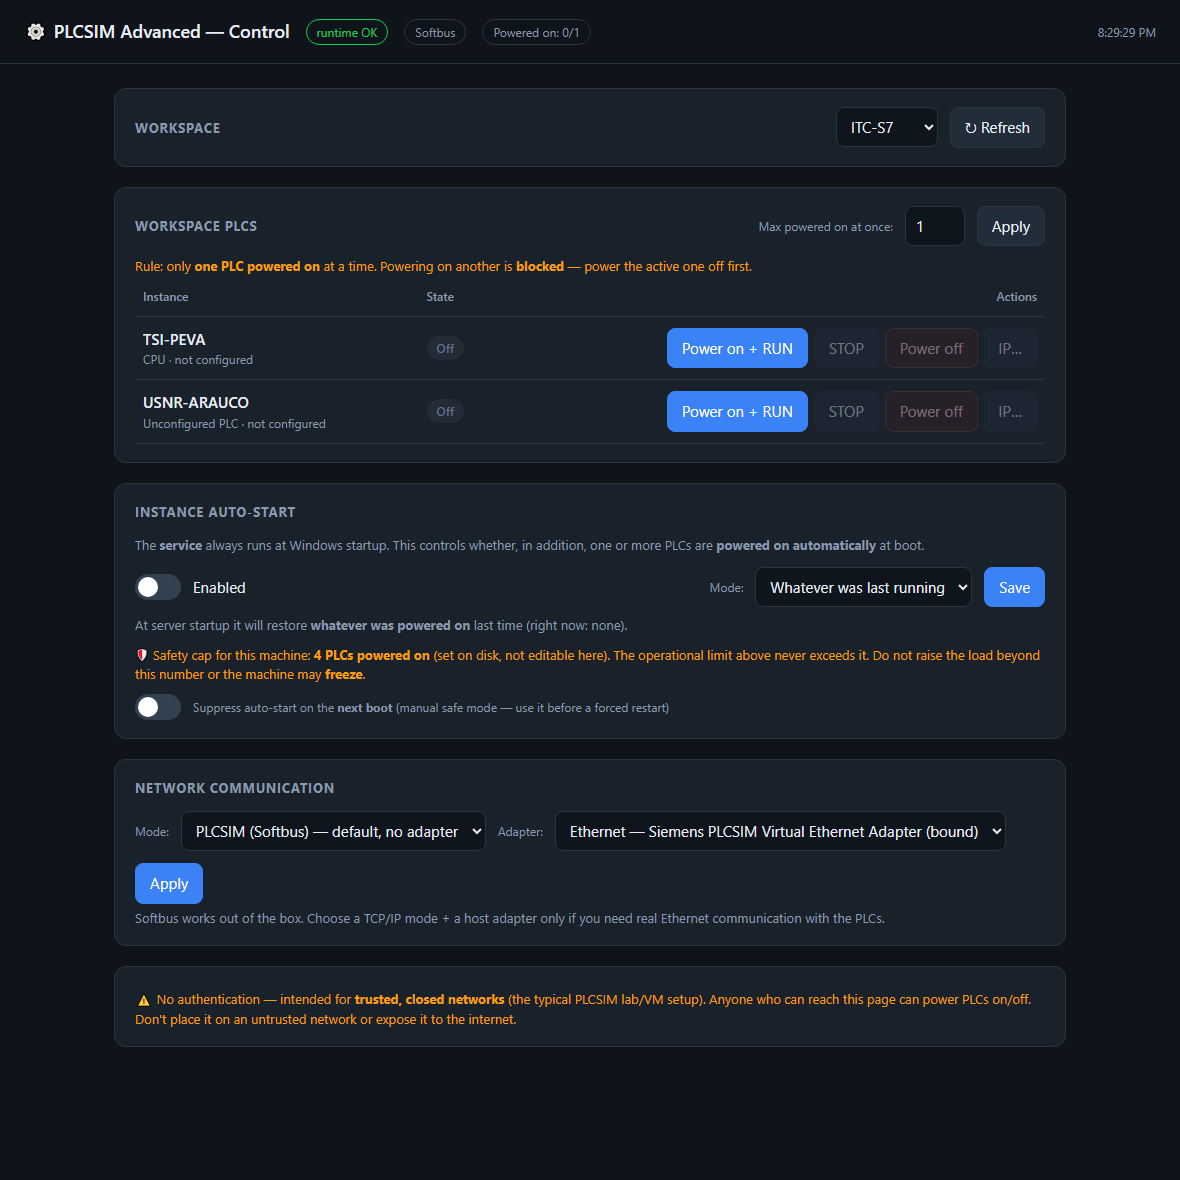
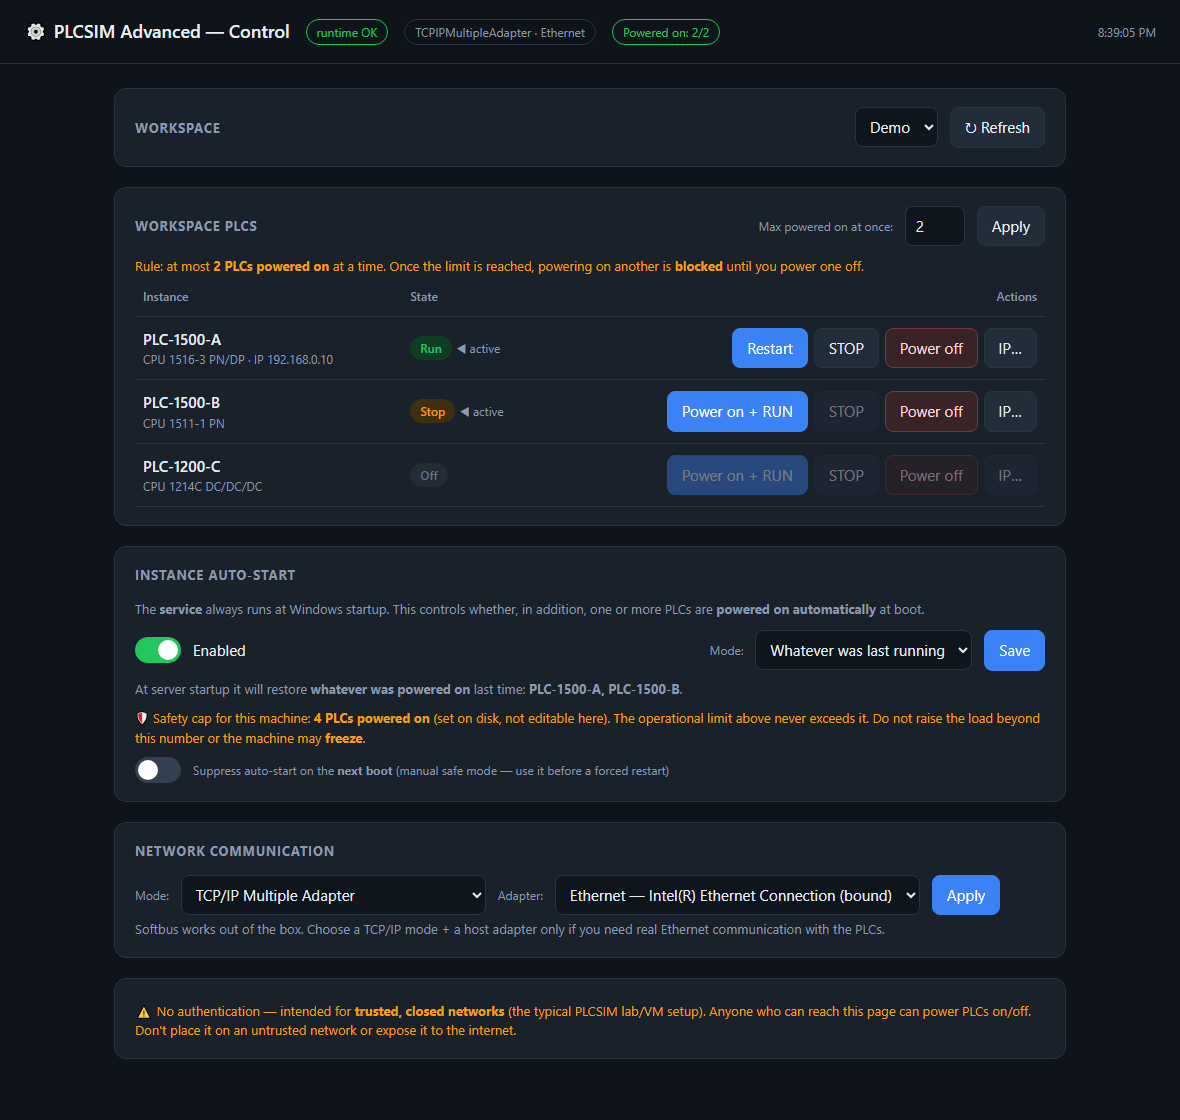
Add double-click Install.cmd/Uninstall.cmd (self-elevating via UAC); use placeholder data in the README screenshot; keep .cmd as CRLF (-text)

diff --git a/docs/INSTALL.md b/docs/INSTALL.md
@@ -8,12 +8,15 @@
 ## Install
 1. Download the project — green **Code → Download ZIP** — which gives **`PLCSIM-WebControl-main.zip`**
    (the prebuilt `PlcWebControl.exe` is inside). Extract it; you get a `PLCSIM-WebControl-main` folder.
-2. **PowerShell → Run as administrator**, `cd` into that folder, and run:
-   ```powershell
-   .\scripts\install.ps1
-   ```
-   It builds the app, finds the PLCSIM DLL, opens the LAN port (default), creates `appconfig.txt`, and
-   registers an always-on task **"PLCSIM WebControl"**. Add `-LocalOnly` to bind to localhost.
+2. **Double-click `Install.cmd`** and accept the UAC prompt. It finds the PLCSIM DLL, opens the LAN
+   port, creates `appconfig.txt`, and registers an always-on task **"PLCSIM WebControl"**.
+
+   > Because it was downloaded from the internet, Windows may first show a security warning ("Windows
+   > protected your PC" / "Open File - Security Warning"). Choose **More info → Run anyway** — it's
+   > your own downloaded file.
+
+   Command-line alternative: from an elevated PowerShell, run `.\scripts\install.ps1` (add `-LocalOnly`
+   to bind to localhost).
 3. Open **http://localhost:8090** (or `http://<this-machine-ip>:8090` from another machine).
 
 Manage it:

diff --git a/README.md b/README.md
@@ -52,13 +52,11 @@ Beyond remote control and auto-start:
 1. **Download** the project — green **Code** button → **Download ZIP**. You get
    **`PLCSIM-WebControl-main.zip`** (the prebuilt `PlcWebControl.exe` is inside). Extract it anywhere;
    it produces a `PLCSIM-WebControl-main` folder.
-2. Open **PowerShell as administrator** in that folder and run:
-   ```powershell
-   .\scripts\install.ps1
-   ```
-   The installer builds the executable, detects your PLCSIM Advanced install, makes the UI reachable
-   from the LAN by default (no authentication; it opens the firewall for the port), and registers an
-   always-on Scheduled Task. Pass `-LocalOnly` to bind it to localhost instead.
+2. **Double-click `Install.cmd`** and accept the admin prompt (UAC). It sets everything up: detects
+   your PLCSIM Advanced install, makes the UI reachable from the LAN (no authentication; it opens the
+   firewall for the port), creates `appconfig.txt`, and registers an always-on Scheduled Task.
+   *(Command-line alternative: run `scripts\install.ps1` from an elevated PowerShell; add `-LocalOnly`
+   to bind to localhost.)*
 3. Open the UI:
    - on this machine: **http://localhost:8090**
    - from another machine: **http://&lt;this-machine-ip&gt;:8090**